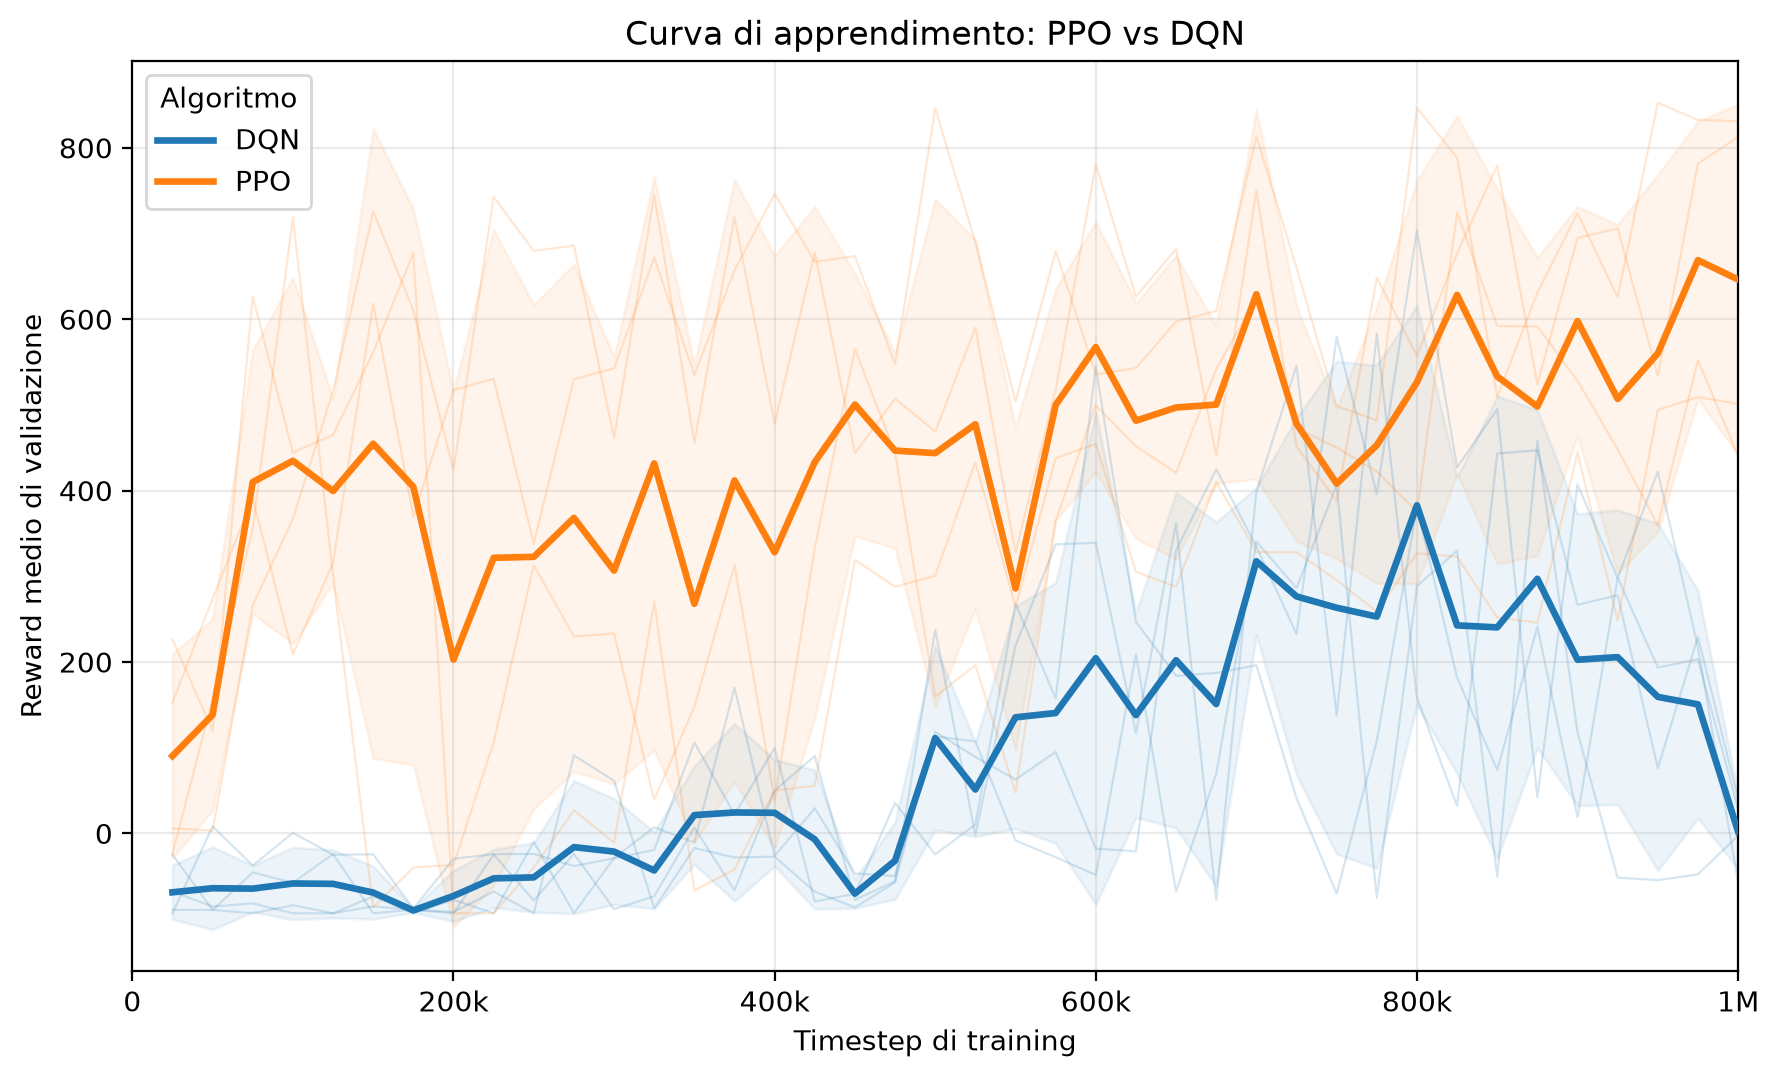
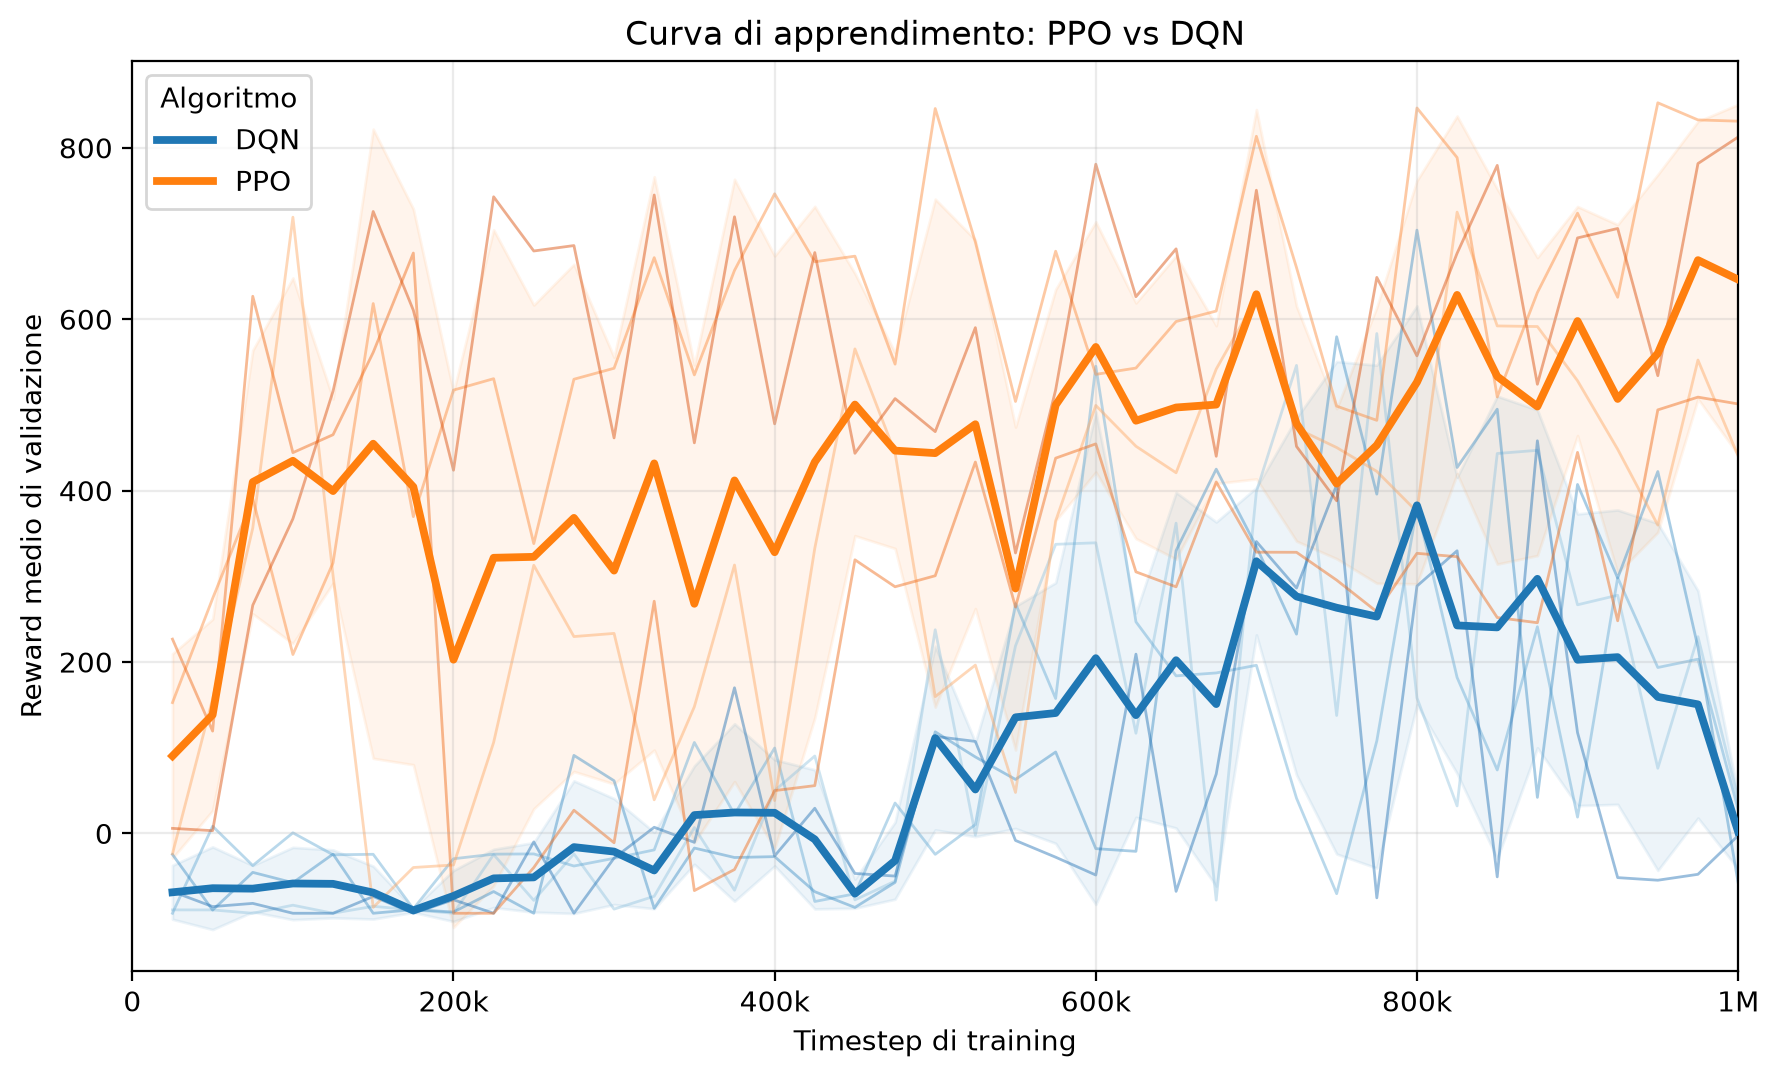
Altra correzione plot_results.py: evidenziazione delle linee di grafico associate ai seed in learning_curve.png

diff --git a/src/plot_results.py b/src/plot_results.py
@@ -37,6 +37,11 @@ import numpy as np
 ALGORITHMS = ("dqn", "ppo")
 DISPLAY_NAME = {"dqn": "DQN", "ppo": "PPO"}
 
+SEED_COLORMAPS = {
+    "dqn": plt.cm.Blues,
+    "ppo": plt.cm.Oranges,
+}
+
 
 def parse_args() -> argparse.Namespace:
     parser = argparse.ArgumentParser(
@@ -224,7 +229,7 @@ def plot_learning_curve(input_dir: Path, output_dir: Path, dpi: int) -> None:
         mean_line = ax.plot(
             timesteps,
             means,
-            linewidth=2.4,
+            linewidth=2.8,
             label=DISPLAY_NAME[
                 algorithm
             ],
@@ -235,7 +240,7 @@ def plot_learning_curve(input_dir: Path, output_dir: Path, dpi: int) -> None:
             mean_line.get_color()
         )
 
-        # Singoli training seed.
+        # Singoli training seed con sfumature diverse.
         training_seeds = sorted(
             seed
             for (
@@ -244,6 +249,19 @@ def plot_learning_curve(input_dir: Path, output_dir: Path, dpi: int) -> None:
             ) in individual
             if algo == algorithm
         )
+
+        cmap = SEED_COLORMAPS[algorithm]
+
+        if len(training_seeds) == 1:
+            shade_values = [0.60]
+        else:
+            # Evita i colori troppo chiari o troppo scuri.
+            shade_values = np.linspace(0.40, 0.75, len(training_seeds))
+
+        seed_colors = {
+            seed: cmap(shade)
+            for seed, shade in zip(training_seeds, shade_values)
+        }
 
         for training_seed in training_seeds:
 
@@ -279,9 +297,9 @@ def plot_learning_curve(input_dir: Path, output_dir: Path, dpi: int) -> None:
             ax.plot(
                 seed_timesteps,
                 seed_rewards,
-                linewidth=0.8,
-                alpha=0.18,
-                color=line_color,
+                linewidth=1.0,
+                alpha=0.45,
+                color=seed_colors[training_seed],
                 zorder=1,
             )
 
